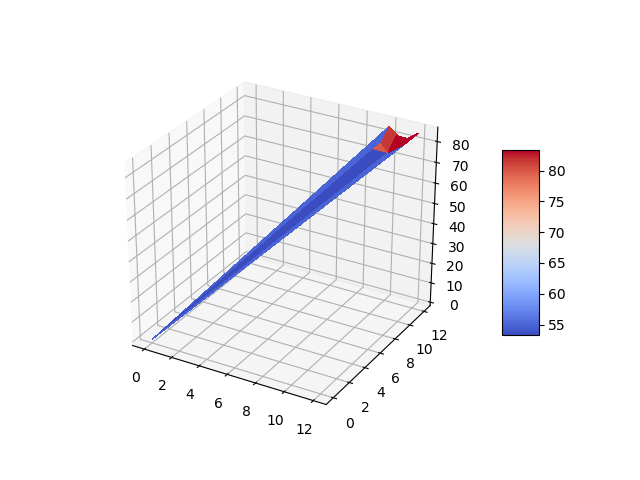
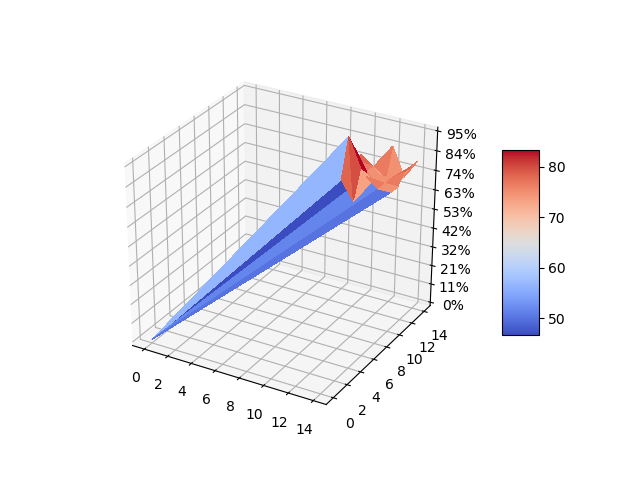
finalv1

diff --git a/net_tester.py b/net_tester.py
@@ -18,8 +18,8 @@ class NetTester:
     def experiment(self):
         in_layer = np.zeros([1])
         out_layer = np.zeros([1])
-        for input_layer in range(10, 50):
-            for output_layer in range(10, 50):
+        for input_layer in range(10, 40):
+            for output_layer in range(10, 40):
                 in_layer = np.append(in_layer, input_layer)
                 out_layer = np.append(out_layer, output_layer)
                 net = network.Network([input_layer, output_layer])
@@ -153,15 +153,12 @@ def layers_pk_plot(input_layer, output_layer, pk):
     fig = plt.figure()
     ax = fig.gca(projection='3d')
 
-    #x, y = np.meshgrid(input_layer, output_layer)
-
     # Plot the surface.
     surf = ax.plot_trisurf(input_layer, output_layer, pk, cmap=cm.coolwarm, linewidth=0, antialiased=False)
 
     # Customize the z axis.
-    # ax.set_zlim(-1.01, 1.01)
-    # ax.zaxis.set_major_locator(LinearLocator(10))
-    # ax.zaxis.set_major_formatter(FormatStrFormatter('%.0f%%'))
+    ax.zaxis.set_major_locator(LinearLocator(10))
+    ax.zaxis.set_major_formatter(FormatStrFormatter('%.0f%%'))
 
     # Add a color bar which maps values to colors.
     fig.colorbar(surf, shrink=0.5, aspect=5)
